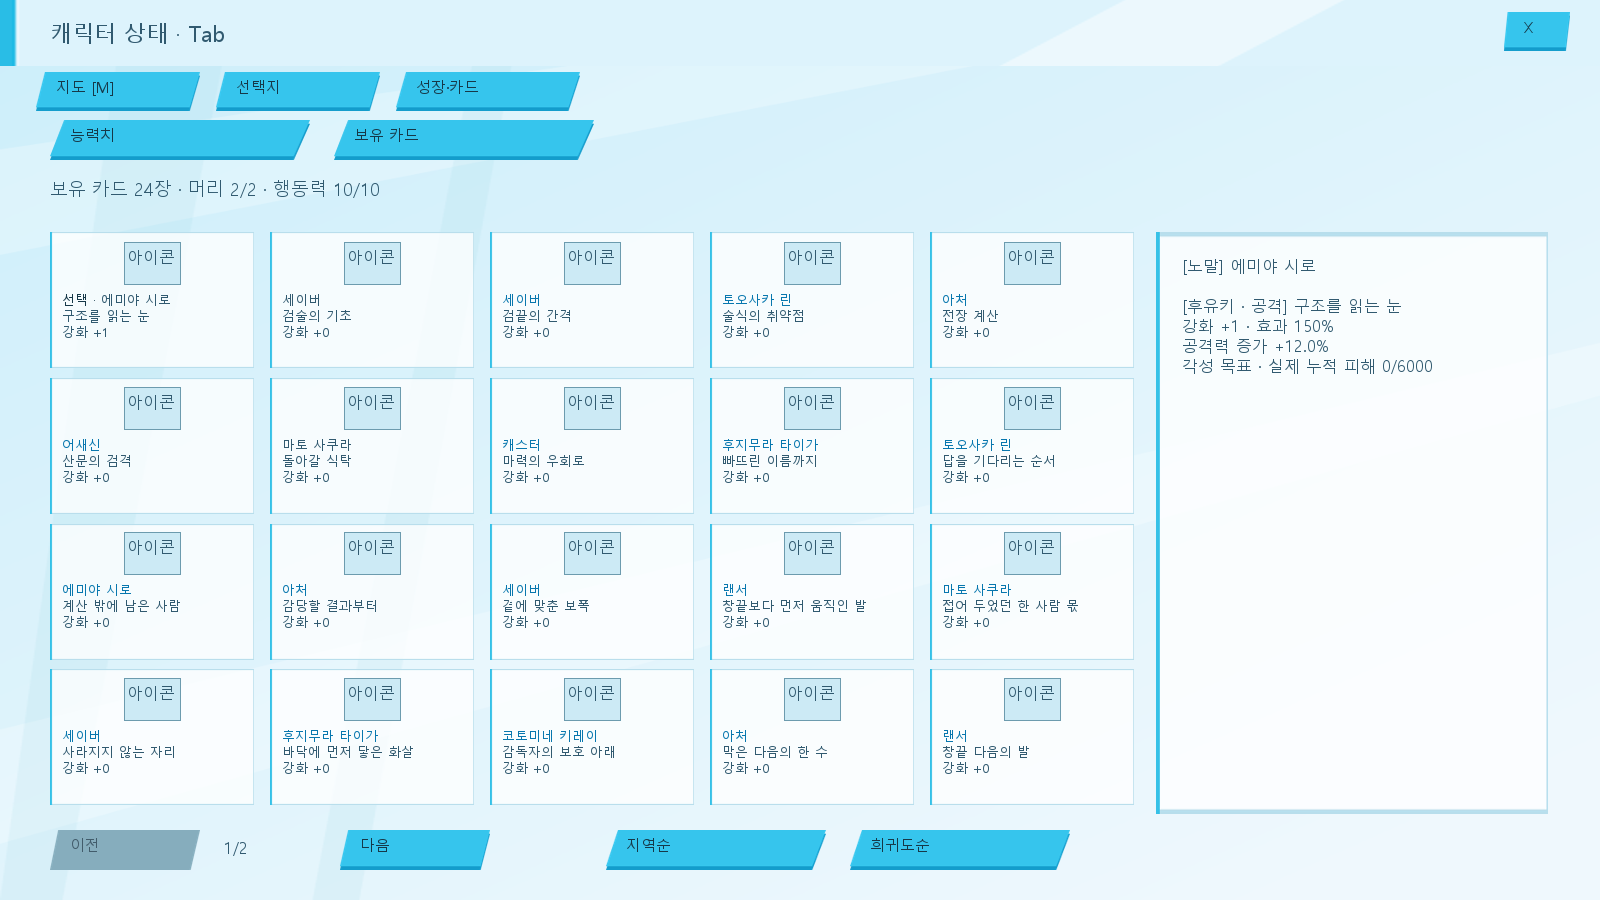
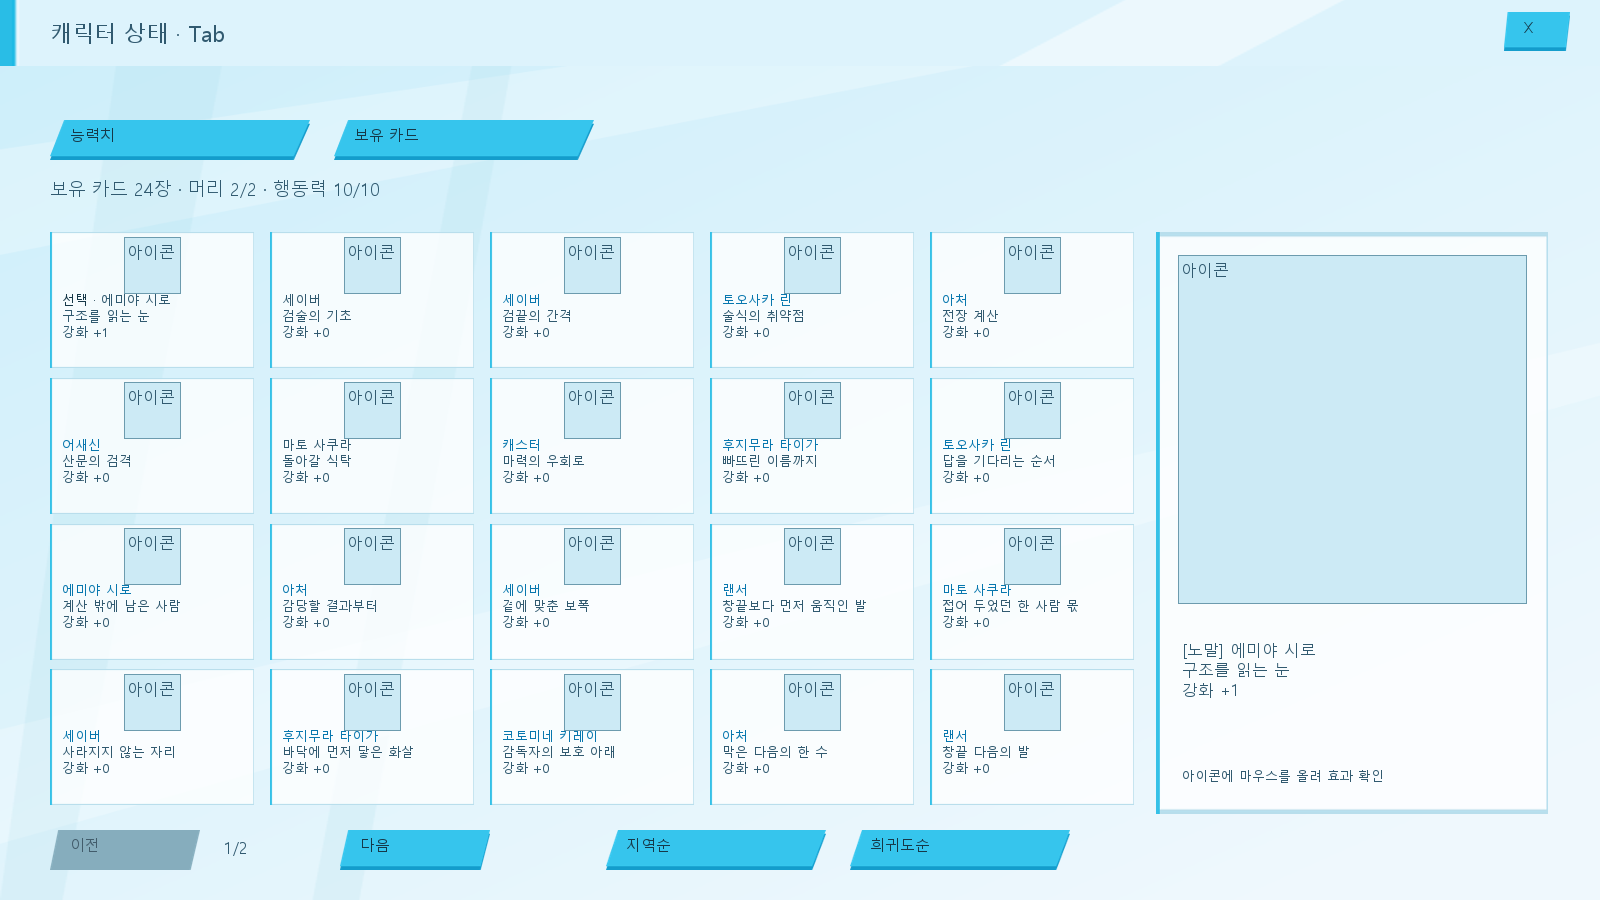
보유 카드 큰 이미지와 아이콘 설명 툴팁 적용

diff --git a/tools/render-hunt-ui.py b/tools/render-hunt-ui.py
@@ -52,4 +52,4 @@ for scene in json.loads(Path(sys.argv[1]).read_text(encoding="utf-8")):
                 draw.text((x + offset, y + index * line_height), char, font=font, fill=color)
     canvas.convert("RGB").save(OUT / ("preview-" + scene["name"] + ".png"))
 (OUT / "text-fit.json").write_text(json.dumps(overflow, ensure_ascii=False, indent=2), encoding="utf-8")
-print(json.dumps({"scenes": 6, "estimated_overflow": len(overflow), "output": str(OUT)}, ensure_ascii=False))
+print(json.dumps({"scenes": 7, "estimated_overflow": len(overflow), "output": str(OUT)}, ensure_ascii=False))

diff --git a/assets/expedition/hunt-ui/README.md b/assets/expedition/hunt-ui/README.md
@@ -2,7 +2,7 @@
 
 `tools/preview-hunt-ui.cjs`가 실제 JASS UI 콜백을 모의 실행한 프레임 좌표·문자열을 추출하고, `tools/render-hunt-ui.py`가 기존 강화 UI TGA와 맑은 고딕을 조합한다.
 
-- 출발 준비, 사건 후보 3개·4개, 행동 4개, 능력치, 보유 카드의 6개 화면을 점검했다.
+- 출발 준비, 사건 후보 3개·4개, 행동 4개, 능력치, 보유 카드·아이콘 툴팁의 7개 화면을 점검했다.
 - 인물별 새 아이콘은 제작하지 않았고 현재 등록된 지역 아이콘을 사용한다. 미리보기에서 로컬 파일이 없는 Warcraft 기본 아이콘은 `아이콘` 자리표시자로 표시한다.
 - 수치는 모의 실행 예시다. 무기·치명·체력 등 네이티브 조회는 게임 실행 결과가 아니며 프레임 겹침·폰트·줄바꿈도 Warcraft에서 재확인해야 한다.
 - 상태창은 보유 카드 20칸, 지역순·희귀도순 정렬, 개별 효과명·강화·각성 정보를 제공한다. 목록은 카드 획득·강화·각성·런 변경 또는 정렬 변경 때 갱신한다.
@@ -15,4 +15,6 @@ node tools/preview-hunt-ui.cjs
 python -B tools/render-hunt-ui.py "$env:TEMP/arcana-hunt-ui-frames.json"
 ```
 
-`text-fit.json`은 선택한 6개 화면의 추정 글자 영역 초과 목록이다. 전체 콘텐츠나 게임 폰트 검증을 뜻하지 않는다.
+`text-fit.json`은 선택한 7개 화면의 추정 글자 영역 초과 목록이다. 전체 콘텐츠나 게임 폰트 검증을 뜻하지 않는다.
+
+상태창의 공통 지도·선택지·성장 메뉴는 숨긴다. 카드 클릭 시 우측 큰 이미지와 이름을 표시하고, 효과·강화 배율·각성 조건은 아이콘 호버 툴팁에서 확인한다. 큰 이미지는 현재 지역 아이콘을 임시 확대하며, 작품별 일러스트 연결은 사용자 요청에 따라 다음 작업으로 남긴다.

diff --git a/copy_archive/hunt_card_preview_2026-10-02/README.md b/copy_archive/hunt_card_preview_2026-10-02/README.md
@@ -1,0 +1,5 @@
+카드 상세를 이미지와 툴팁으로 분리하기 전 원본. 활성 import 없음.
+
+원본 UI/UI_PrototypeStatus.j
+기준 커밋 464c163
+SHA-256 b0c5d225b0f4bcf75ec10f2959d5c6e77256d10e28831556018034cfae03c757
